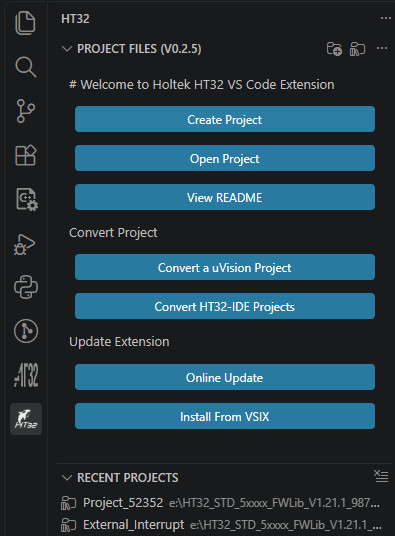
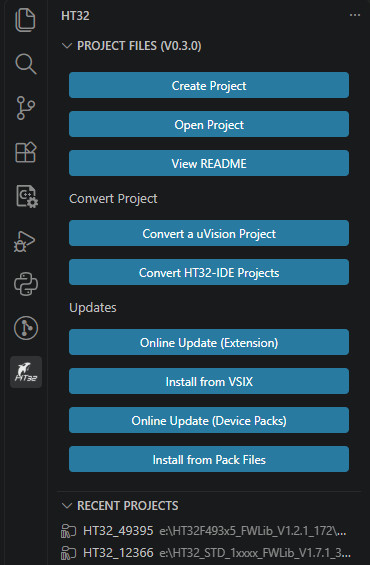
Update files

diff --git a/README.md b/README.md
@@ -78,7 +78,7 @@ A VS Code extension for **Holtek HT32** series Cortex-M microcontrollers (M0+/M3
 
 After installation, the **HT32 icon** appears in the Activity Bar. Click it to open the HT32 panel.
 
-**When no project is open:** shows **Create Project** and **Open Project** buttons, a **View README** link, **Convert a uVision Project** and **Convert HT32-IDE Projects** buttons, and an **Update Extension** section with **Online Update** and **Install From VSIX** shortcuts. If any projects have been opened before, a **Recent Projects** list appears below for quick access.
+**When no project is open:** shows **Create Project** and **Open Project** buttons, a **View README** link, **Convert a uVision Project** and **Convert HT32-IDE Projects** buttons, and an **Updates** section with **Online Update (Extension)**, **Install from VSIX**, **Online Update (Device Packs)**, and **Install from Pack Files** shortcuts. If any projects have been opened before, a **Recent Projects** list appears below for quick access.
 
 <img src="media/4.jpg" width="300" style="border:1px solid #ccc; border-radius:4px; padding:3px;">
 
@@ -577,6 +577,8 @@ After conversion or project creation, the extension auto-generates `.clangd` and
 | `HT32: Refresh Stack Usage` | Manually refresh the Stack Usage Analysis panel |
 | `HT32: Update Extension (Online)` | Check the VS Code Marketplace for a newer version and install it automatically |
 | `HT32: Install Extension from VSIX` | Open a file picker to install a local `.vsix` package |
+| `HT32: Update Device Packs (Online)` | Download and install missing DFP packs from the GitHub pack repository |
+| `HT32: Install Device Pack from File` | Open a file picker to install one or more local `.pack` files |
 
 ---
 
